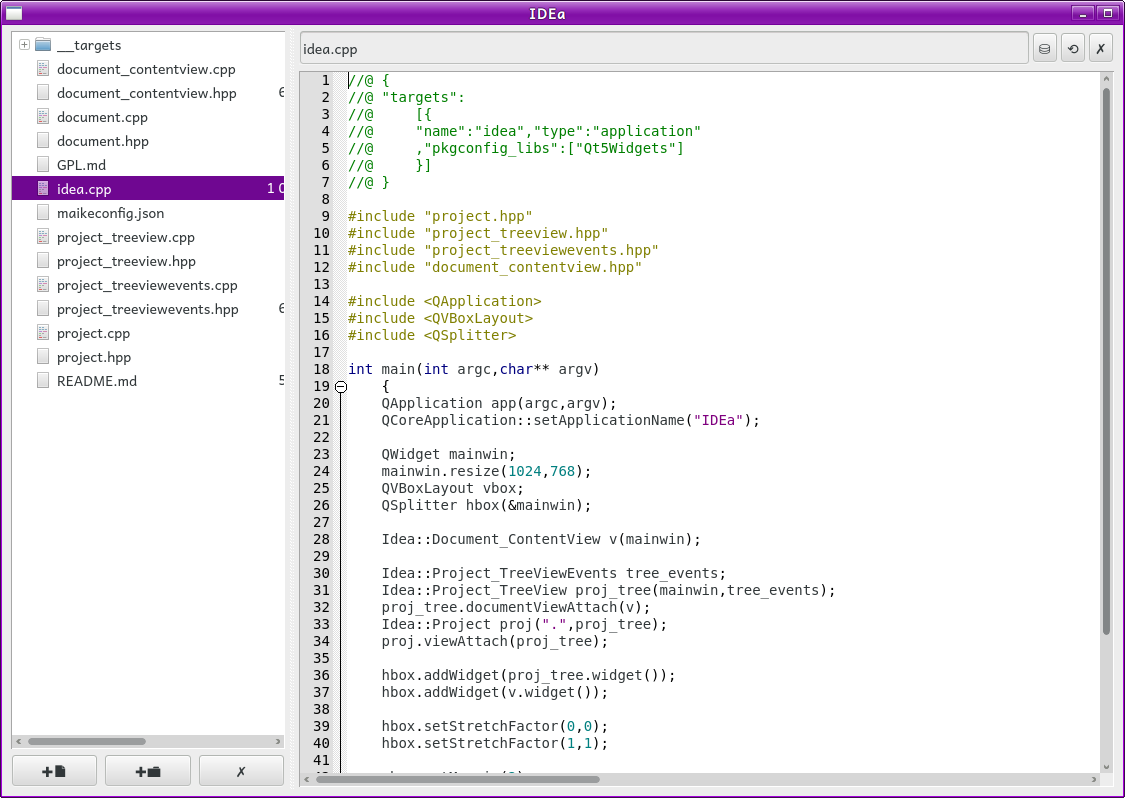
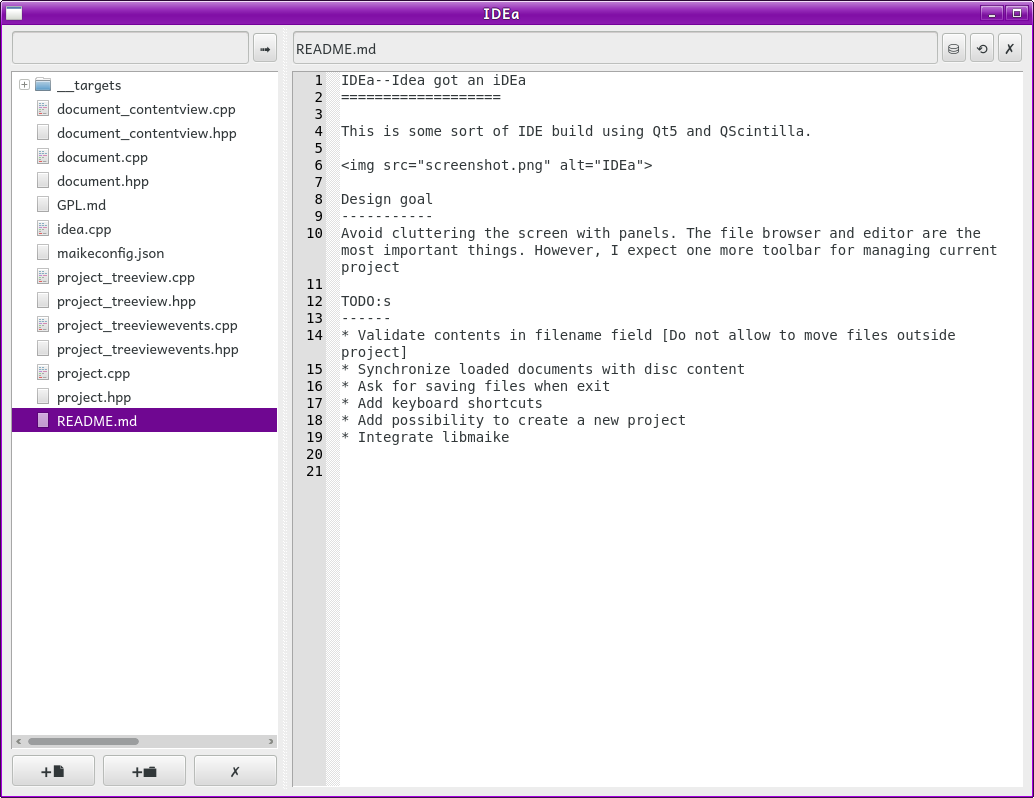
More features + bugfixes

diff --git a/project_treeview.cpp b/project_treeview.cpp
@@ -15,6 +15,8 @@
 #include <QVBoxLayout>
 #include <QInputDialog>
 #include <QMessageBox>
+#include <QToolButton>
+#include <QLineEdit>
 
 using namespace Idea;
 
@@ -23,16 +25,24 @@ class Project_TreeView::Impl:public QWidget
 	public:
 		Impl(QWidget& parent,EventHandler& event_handler,Project_TreeView& owner):
 			QWidget(&parent),m_tree(this),m_newfile(this),m_newdir(this),m_rm(this)
+			,m_searchtext(this),m_go(this)
 			,r_owner(owner)
 			,r_event_handler(&event_handler),r_doc_view(nullptr)
 			{
+			m_go.setText("➟");
+			m_searchbox.addWidget(&m_searchtext);
+			m_searchbox.addWidget(&m_go);
+			m_searchbox.setMargin(0);
+			m_searchbox.setSpacing(2);
+			m_box.addLayout(&m_searchbox);
+
 			m_tree.setModel(&m_fs);
 			m_tree.setHeaderHidden(1);
 			m_tree.header()->setSectionResizeMode(0,QHeaderView::ResizeToContents);
 			m_box.addWidget(&m_tree);
 			m_box.setMargin(4);
-			m_newfile.setText("✚📄");
-			m_newdir.setText("✚📁");
+			m_newfile.setText("➕📄");
+			m_newdir.setText("➕📁");
 			m_rm.setText("✗");
 			m_projman.addWidget(&m_newfile);
 			m_projman.addWidget(&m_newdir);
@@ -41,18 +51,44 @@ class Project_TreeView::Impl:public QWidget
 			setLayout(&m_box);
 
 		//	If no item is selected, use the project root directory as selected item.
-			m_isdir=1;
+			m_selection.isdir=1;
+
+			connect(&m_go,&QToolButton::clicked,[this](bool checked)
+				{
+				if(r_project!=nullptr)
+					{r_project->documentCurrentSet(m_searchtext.text().toUtf8().constData());}
+				});
+
+			connect(&m_searchtext,&QLineEdit::returnPressed,[this]()
+				{
+				if(r_project!=nullptr)
+					{r_project->documentCurrentSet(m_searchtext.text().toUtf8().constData());}
+				});
+
 
 			connect(m_tree.selectionModel(),&QItemSelectionModel::selectionChanged
 				,[this](const QItemSelection& sel_new,const QItemSelection& sel_old)
 					{
-					auto fileinfo=m_fs.fileInfo(sel_new.indexes().first());
-					auto in_dir_full=QDir(m_fs.rootDirectory());
-					m_dir=in_dir_full.relativeFilePath( fileinfo.absolutePath() ).toLocal8Bit();
-					m_filename=in_dir_full.relativeFilePath(fileinfo.absoluteFilePath()).toLocal8Bit();
-					m_isdir=fileinfo.isDir();
+					m_selection=itemGet(sel_new.indexes().first());
 					r_event_handler->itemSelected(r_owner);
 					});
+
+			connect(&m_fs,&QAbstractItemModel::rowsAboutToBeRemoved,[this](const QModelIndex& parent
+				,int first,int last)
+				{
+				while(first<=last)
+					{
+					auto item_internal=itemGet(parent.child(first,0));
+					Item item
+						{
+						 item_internal.dir.constData()
+						,item_internal.filename.constData()
+						,item_internal.isdir
+						};
+					r_event_handler->itemDeleted(r_owner,item);
+					++first;
+					}
+				});
 
 			connect(&m_newfile,&QPushButton::clicked,[this](bool selected)
 				{
@@ -78,12 +114,12 @@ class Project_TreeView::Impl:public QWidget
 
 			connect(&m_rm,&QPushButton::clicked,[this](bool selected)
 				{
-				if(m_filename.size()!=0)
+				if(m_selection.filename.size()!=0)
 					{
 					QMessageBox msgbox(this);
 					msgbox.setWindowTitle("Deleting item");
 					QString str("Are you sure you want to delete ");
-					str+=m_filename;
+					str+=m_selection.filename;
 					str+="?";
 
 					msgbox.setText(str);
@@ -110,7 +146,12 @@ class Project_TreeView::Impl:public QWidget
 
 		Item itemSelectedGet() const noexcept
 			{
-			return {m_dir.constData(),m_filename.constData(),m_isdir};
+			return 
+				{
+				 m_selection.dir.constData()
+				,m_selection.filename.constData()
+				,m_selection.isdir
+				};
 			}
 
 		QWidget* widget() noexcept
@@ -124,7 +165,6 @@ class Project_TreeView::Impl:public QWidget
 
 		void documentCurrentSet(Project& proj)
 			{
-			
 			auto& doc=proj.documentCurrentGet();
 			if(r_doc_view!=nullptr)
 				{r_doc_view->documentSet(doc);}
@@ -138,7 +178,10 @@ class Project_TreeView::Impl:public QWidget
 			QSignalBlocker blocker(selection);
 			if(selection->hasSelection())
 				{selection->clearSelection();}
-			selection->select(QItemSelection(index_a,index_b),QItemSelectionModel::Select);
+			auto sel_new=QItemSelection(index_a,index_b);
+			selection->select(sel_new,QItemSelectionModel::Select);
+			if(!sel_new.indexes().empty())
+				{m_selection=itemGet(sel_new.indexes().first());}
 			}
 
 	private:
@@ -149,12 +192,29 @@ class Project_TreeView::Impl:public QWidget
 		QPushButton m_newfile;
 		QPushButton m_newdir;
 		QPushButton m_rm;
+		QHBoxLayout m_searchbox;
+		QLineEdit m_searchtext;
+		QToolButton m_go;
 
-
-	//	Properties about selected item
-		QByteArray m_dir;
-		QByteArray m_filename;
-		bool m_isdir;
+		struct ItemInternal
+			{
+			QByteArray dir;
+			QByteArray filename;
+			bool isdir;
+			};
+		ItemInternal m_selection;
+	
+		ItemInternal itemGet(const QModelIndex& model)
+			{
+			auto fileinfo=m_fs.fileInfo(model);
+			auto in_dir_full=QDir(m_fs.rootDirectory());			
+			return 
+				{
+				 in_dir_full.relativeFilePath( fileinfo.absolutePath() ).toLocal8Bit()
+				,in_dir_full.relativeFilePath(fileinfo.absoluteFilePath()).toLocal8Bit()
+				,fileinfo.isDir()
+				};
+			}
 
 		Project_TreeView& r_owner;
 		EventHandler* r_event_handler;

diff --git a/document_contentview.cpp b/document_contentview.cpp
@@ -13,6 +13,13 @@
 #include <Qsci/qsciscintilla.h>
 #include <Qsci/qscilexercpp.h>
 #include <Qsci/qscilexerjavascript.h>
+#include <Qsci/qscilexerbash.h>
+#include <Qsci/qscilexerbatch.h>
+#include <Qsci/qscilexercss.h>
+#include <Qsci/qscilexerhtml.h>
+#include <Qsci/qscilexermatlab.h>
+#include <Qsci/qscilexerpython.h>
+#include <Qsci/qscilexertex.h>
 #include <QVBoxLayout>
 #include <QHBoxLayout>
 #include <QLineEdit>
@@ -28,7 +35,8 @@ class Document_ContentView::Impl:public QWidget
 	{
 	public:
 		Impl(QWidget& parent):QWidget(&parent),r_document(nullptr)
-			,m_filename(this),m_save(this),m_reload(this),m_delete(this),m_scintilla(this)
+			,m_filename(this),m_save(this),m_reload(this),m_delete(this)
+			,m_scintilla(this),m_lexer(nullptr)
 			{
 			m_scintilla.setMarginLineNumbers(1,1);
 			m_scintilla.setFolding(QsciScintilla::CircledTreeFoldStyle);
@@ -94,21 +102,51 @@ class Document_ContentView::Impl:public QWidget
 			m_scintilla.setSelection(sel.line_from,sel.index_from,sel.line_to,sel.index_to);
 
 			auto pos=strrchr(r_document->filenameGet(),'.');
+			m_scintilla.setWrapMode(QsciScintilla::WrapNone);
 			if(pos!=NULL)
 				{
+				delete m_lexer;
+				m_lexer=nullptr;
 				if(strcmp(pos,".cpp")==0 || strcmp(pos,".hpp")==0)
-					{
-					delete m_lexer;
-					m_lexer=new QsciLexerCPP;
-					}
+					{m_lexer=new QsciLexerCPP;}
 				else
 				if(strcmp(pos,".json")==0 || strcmp(pos,".js")==0)
+					{m_lexer=new QsciLexerJavaScript;}
+				else
+				if(strcmp(pos,".sh")==0)
+					{m_lexer=new QsciLexerBash;}
+				else
+				if(strcmp(pos,".bat")==0)
+					{m_lexer=new QsciLexerBatch;}
+				else
+				if(strcmp(pos,".css")==0)
+					{m_lexer=new QsciLexerCSS;}
+				else
+				if(strcmp(pos,".html")==0 || strcmp(pos,".htm")==0 || strcmp(pos,".xml")==0)
 					{
-					delete m_lexer;
-					m_lexer=new QsciLexerJavaScript;
+					m_lexer=new QsciLexerHTML;
+					m_scintilla.setWrapMode(QsciScintilla::WrapWord);
 					}
+				else
+				if(strcmp(pos,".md")==0)
+					{m_scintilla.setWrapMode(QsciScintilla::WrapWord);}
+				else
+				if(strcmp(pos,".m")==0)
+					{m_lexer=new QsciLexerMatlab;}
+				else
+				if(strcmp(pos,".py")==0)
+					{m_lexer=new QsciLexerPython;}
+				else
+				if(strcmp(pos,".tex")==0)
+					{
+					m_lexer=new QsciLexerTeX;
+					m_scintilla.setWrapMode(QsciScintilla::WrapWord);
+					}
+
 				if(m_lexer!=nullptr)
 					{m_lexer->setFont(QFontDatabase::systemFont(QFontDatabase::FixedFont),-1);}
+				else
+					{m_scintilla.setFont(QFontDatabase::systemFont(QFontDatabase::FixedFont));}
 				m_scintilla.setLexer(m_lexer);
 				}
 			m_filename.setText(r_document->filenameGet());
@@ -144,7 +182,7 @@ class Document_ContentView::Impl:public QWidget
 
 		void filenameCatchChangeEvent()
 			{
-			connect(&m_filename,&QLineEdit::editingFinished,[this]()
+			connect(&m_filename,&QLineEdit::returnPressed,[this]()
 				{
 				if(r_document==nullptr)
 					{return;}
@@ -177,6 +215,8 @@ class Document_ContentView::Impl:public QWidget
 					else
 					if(button_clicked==savecopy)
 						{r_document->contentSaveCopy(filename.constData());}
+					else
+						{m_filename.setText(r_document->filenameGet());}
 					}
 				});
 			}

diff --git a/project.cpp b/project.cpp
@@ -125,3 +125,31 @@ void Project::fileRemove(const char* name)
 	if(i!=m_documents.end())
 		{i->second.remove();}
 	}
+
+void Project::documentRemoved(const char* name)
+	{
+	auto key=std::string(name);
+	auto i=m_documents.find(key);
+	if(i!=m_documents.end())
+		{
+		if(&i->second==r_doc_current)
+			{
+			auto i_empty=m_documents.find(std::string(""));
+			assert(i_empty!=m_documents.end());
+			documentCurrentSet(i_empty->second);
+			}
+		m_documents.erase(i);
+		}
+	}
+
+void Project::documentsSave()
+	{
+	auto i=m_documents.begin();
+	auto i_end=m_documents.end();
+	while(i!=i_end)
+		{
+		if(i->second.dirtyIs())
+			{i->second.contentSave();}
+		++i;
+		}
+	}

diff --git a/project_treeview.hpp b/project_treeview.hpp
@@ -32,6 +32,7 @@ namespace Idea
 					virtual void fileCreate(const Project_TreeView& view,const char* name)=0;
 					virtual void directoryCreate(const Project_TreeView& view,const char* name)=0;
 					virtual void itemDelete(const Project_TreeView& view)=0;
+					virtual void itemDeleted(const Project_TreeView& view,const Item& item)=0;
 				};
 
 			Project_TreeView(QWidget& parent,EventHandler& event_handler);

diff --git a/project_treeviewevents.cpp b/project_treeviewevents.cpp
@@ -46,3 +46,10 @@ void Project_TreeViewEvents::itemDelete(const Project_TreeView& view)
 	else
 		{view.projectGet().fileRemove(item.name);}
 	}
+void Project_TreeViewEvents::itemDeleted(const Project_TreeView& view,const Project_TreeView::Item& item)
+	{
+	if(!item.is_dir)
+		{
+		view.projectGet().documentRemoved(item.name);
+		}
+	}

diff --git a/project_treeviewevents.hpp b/project_treeviewevents.hpp
@@ -17,6 +17,7 @@ namespace Idea
 			void fileCreate(const Project_TreeView& view,const char* name);
 			void directoryCreate(const Project_TreeView& view,const char* name);
 			void itemDelete(const Project_TreeView& view);
+			void itemDeleted(const Project_TreeView& view,const Project_TreeView::Item& item);
 		};
 	}
 

diff --git a/idea.cpp b/idea.cpp
@@ -45,5 +45,8 @@ int main(int argc,char** argv)
 	mainwin.setLayout(&vbox);
 	mainwin.show();
 
-	return app.exec();
+	auto ret=app.exec();
+	
+	proj.documentsSave();
+	return ret;
 	}

diff --git a/project.hpp b/project.hpp
@@ -54,6 +54,9 @@ namespace Idea
 
 			void fileRemove(const char* name);
 
+			void documentRemoved(const char* name);
+
+			void documentsSave();
 
 		private:
 			std::string m_root;
